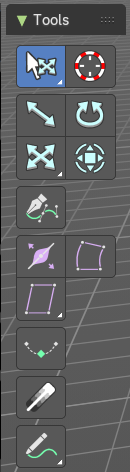
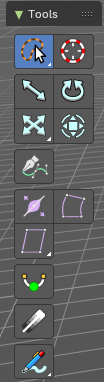
Document week 45 small upstream changes: Mask socket default link, GP Lasso default, GP Curve Data panel, EEVEE Oren-Nayar, Shader Add > Utilities Bundle and Closure, Menu Switch descriptions, Azerbaijani (#1847)

diff --git a/docs2/content/editors/shader-editor/header/add-menu/utilities.md b/docs2/content/editors/shader-editor/header/add-menu/utilities.md
@@ -23,11 +23,11 @@ replaces:
   - editors.shader-editor.header.add-menu-utilities-math
   - editors.shader-editor.header.add-menu-utilities-vector
 ---
-## Add menu - Utilities - Vector
+## Add menu - Utilities
 
-![Add menu - Utilities - Vector](/docs2/images/editors/shader-editor/header/add-menu-utilities/add-menu-utilities-vector.png)
+![Add menu - Utilities](/docs2/images/editors/shader-editor/header/add-menu-utilities/add-menu-utilities-vector.png)
 
-This menu contains nodes that deals with vector data.
+This menu contains the utility nodes of the Shader Editor. The Math, Text and Vector submenus group the nodes by data. The **Bundle** and **Closure** submenus have their own entries in the menu, and are described in their own sections after this one. The other nodes are listed directly in the Utilities menu.
 
 ### Repeat
 
@@ -63,84 +63,6 @@ The index of the current iteration. It starts counting at zero.
 
 The result and output of the iteration or loop. It has no fixed sockets. It shows one input and one output for each item of the zone.
 
-
-### Closure
-
-![Closure](/docs2/images/editors/shader-editor/header/add-menu-utilities/closure.png)
-
-Wrap nodes inside a closure that can be executed at a different part of the node-tree
-
-#### Outputs
-
-##### Closure
-
-Data type: Closure.
-
-The closure made from the nodes inside the zone. This socket is on the Closure Output node.
-
-### Evaluate Closure
-
-![Evaluate Closure](/docs2/images/editors/shader-editor/header/add-menu-utilities/evaluate-closure.png)
-
-Execute a given closure.
-
-#### Inputs
-
-##### Closure
-
-Data type: Closure.
-
-The closure to execute. The other inputs and outputs of the node follow the items of the closure.
-
-### Combine Bundle
-
-![Combine Bundle](/docs2/images/editors/shader-editor/header/add-menu-utilities/combine-bundle.png)
-
-Combine multiple socket values into one.
-
-#### Outputs
-
-##### Bundle
-
-Data type: Bundle.
-
-The bundle with all the values. Connect a link to the empty input socket to add a value.
-
-### Join Bundle
-
-![Join Bundle](/docs2/images/editors/shader-editor/header/add-menu-utilities/join-bundle.png)
-
-Merges two or more bundles into one. A bundle holds several values under names, like a small folder of settings, and Join Bundle puts the contents of several folders into a single one. Use it to collect the settings of different parts of a node tree into one bundle that you pass on.
-
-#### Inputs
-
-##### Bundle
-
-Data type: Bundle.
-
-One or more bundles. The empty socket at the bottom adds another one.
-
-#### Outputs
-
-##### Bundle
-
-Data type: Bundle.
-
-One bundle with the items of all input bundles.
-
-### Separate Bundle
-
-![Separate Bundle](/docs2/images/editors/shader-editor/header/add-menu-utilities/separate-bundle.png)
-
-Decompose a bundle of values into the single values.
-
-#### Inputs
-
-##### Bundle
-
-Data type: Bundle.
-
-The bundle to split. Connect a link to the empty output socket to add a value.
 
 ### Index Switch
 
@@ -225,6 +147,12 @@ The values to switch between, one for each menu item. An item becomes the output
 
 Determines the type of the data that is handled by the node.
 
+##### Menu Items
+
+![Menu Items](/docs2/images/editors/shader-editor/header/add-menu-utilities/menu-items.png)
+
+The sidebar Node tab lists the menu items. Select an item to edit it. The **Description** box under the list is a multi-line text box: press Enter to start a new line, and drag its lower right corner to make it taller. The description is shown as the tooltip of the menu entry.
+
 #### Outputs
 
 ##### Output
@@ -279,6 +207,96 @@ Data type: Color.
 
 The True or False value, depending on Switch.
 
+
+## Add menu - Utilities - Bundle
+
+![Add menu - Utilities - Bundle](/docs2/images/editors/shader-editor/header/add-menu-utilities/add-menu-utilities-bundle.png)
+
+The Bundle submenu holds the nodes that build, merge and split bundles. A bundle is a group of named values that travels along one link.
+
+### Combine Bundle
+
+![Combine Bundle](/docs2/images/editors/shader-editor/header/add-menu-utilities/combine-bundle.png)
+
+Combine multiple socket values into one.
+
+#### Outputs
+
+##### Bundle
+
+Data type: Bundle.
+
+The bundle with all the values. Connect a link to the empty input socket to add a value.
+
+### Join Bundle
+
+![Join Bundle](/docs2/images/editors/shader-editor/header/add-menu-utilities/join-bundle.png)
+
+Merges two or more bundles into one. A bundle holds several values under names, like a small folder of settings, and Join Bundle puts the contents of several folders into a single one. Use it to collect the settings of different parts of a node tree into one bundle that you pass on.
+
+#### Inputs
+
+##### Bundle
+
+Data type: Bundle.
+
+One or more bundles. The empty socket at the bottom adds another one.
+
+#### Outputs
+
+##### Bundle
+
+Data type: Bundle.
+
+One bundle with the items of all input bundles.
+
+### Separate Bundle
+
+![Separate Bundle](/docs2/images/editors/shader-editor/header/add-menu-utilities/separate-bundle.png)
+
+Decompose a bundle of values into the single values.
+
+#### Inputs
+
+##### Bundle
+
+Data type: Bundle.
+
+The bundle to split. Connect a link to the empty output socket to add a value.
+
+## Add menu - Utilities - Closure
+
+![Add menu - Utilities - Closure](/docs2/images/editors/shader-editor/header/add-menu-utilities/add-menu-utilities-closure.png)
+
+The Closure submenu holds the nodes that wrap nodes inside a closure and run it somewhere else in the node tree.
+
+### Closure
+
+![Closure](/docs2/images/editors/shader-editor/header/add-menu-utilities/closure.png)
+
+Wrap nodes inside a closure that can be executed at a different part of the node-tree
+
+#### Outputs
+
+##### Closure
+
+Data type: Closure.
+
+The closure made from the nodes inside the zone. This socket is on the Closure Output node.
+
+### Evaluate Closure
+
+![Evaluate Closure](/docs2/images/editors/shader-editor/header/add-menu-utilities/evaluate-closure.png)
+
+Execute a given closure.
+
+#### Inputs
+
+##### Closure
+
+Data type: Closure.
+
+The closure to execute. The other inputs and outputs of the node follow the items of the closure.
 
 # Math
 

diff --git a/docs2/content/editors/3d-viewport/all-modes/sidebar.md b/docs2/content/editors/3d-viewport/all-modes/sidebar.md
@@ -582,13 +582,50 @@ The subdivision per segment.
 
 Smooth the normals of the surface or a beveled curve.
 
-## Item tab - Grease Pencil Object - Active Spline Panel
+## Item tab - Grease Pencil Object - Curve Data Panel
+
+![Curve Data panel](/docs2/images/editors/3d-viewport/sidebar/item-tab/grease-pencil-curve-data.png)
+
+The Curve Data panel shows in Edit Mode when strokes are selected. It changes the attributes of all selected strokes at once. A field is shown as mixed when the selected strokes have different values.
+
+### Stroke Type
+
+![Stroke Type](/docs2/images/editors/3d-viewport/sidebar/item-tab/grease-pencil-stroke-type.png)
+
+Sets what the selected strokes are made of. It does the same as **Stroke > Set Stroke Type**, and it is faster when the sidebar is open.
+
+- **Stroke**: Only the line is drawn. Existing fills of the selected strokes are removed.
+- **Fill**: Only the fill is drawn. The line is hidden.
+- **Both**: The line and the fill are drawn.
 
 ### Cyclic
 
 ![Cyclic](/docs2/images/editors/3d-viewport/sidebar/item-tab/cyclic.png)
 
 The checkbox is labeled **U**, like the Cyclic checkbox in the Active Spline panel of curves. Turn it on to make the selected stroke (or curve, for a Curves object) a closed loop. Hover over the checkbox to see the tooltip "Make the stroke a closed loop".
+
+### Fill Opacity
+
+Opacity of the fill of the selected strokes.
+
+### Start Cap / End Cap
+
+The shape of the start and the end of the stroke. Each entry has its own icon in the list.
+
+- **Round**: The end is a half circle.
+- **Flat**: The end is cut straight.
+
+### Softness
+
+Softens the edge of the stroke.
+
+### U Scale
+
+Scales the stroke texture along the stroke.
+
+### Aspect Ratio
+
+Changes the aspect ratio of the stroke texture.
 
 # View Tab
 

diff --git a/docs2/content/editors/3d-viewport/grease-pencil/edit.md b/docs2/content/editors/3d-viewport/grease-pencil/edit.md
@@ -1033,6 +1033,8 @@ Here you can find tools to edit the curve geometry of the grease pencil strokes.
 
 The tweak, select, transform, 3d cursor, measure and annotate tools at the end of the list are explained in the chapter 7.1.1 Editors - 3D View - Tool Shelf - Object Mode. We won't cover this tools again here.
 
+**Select Lasso** is the active tool when you enter Edit Mode on a Grease Pencil object, so you can drag a free-form loop around points straight away. Pick another select tool (Tweak, Select Box or Select Circle) from the first slot of the tool shelf if you prefer it. A scene that already has a tool stored keeps that tool.
+
 #### Pen
 
 Extrude selected curve points to the mouse click position.

diff --git a/docs2/content/editors/compositor/header/add-menu/mask.md b/docs2/content/editors/compositor/header/add-menu/mask.md
@@ -251,6 +251,8 @@ Data type: Float (factor).
 
 An optional mask to use as the base for mask operations.
 
+This is the socket that connects by default: when you insert the node on a link, or add it from a dragged link, the link goes to **Mask**.
+
 ##### Value
 
 Data type: Float (factor).
@@ -322,6 +324,8 @@ Any area covered by both the input mask and the generated mask becomes black. Ar
 Data type: Float (factor).
 
 An optional mask to use as the base for mask operations.
+
+This is the socket that connects by default: when you insert the node on a link, or add it from a dragged link, the link goes to **Mask**.
 
 ##### Value
 

diff --git a/docs2/content/editors/geometry-node-editor/header/add-menu/utilities.md b/docs2/content/editors/geometry-node-editor/header/add-menu/utilities.md
@@ -251,6 +251,12 @@ The node has one input socket for each menu item. A and B are the default items.
 
 Determines the type of the data that is handled by the node.
 
+##### Menu Items
+
+![Menu Items](/docs2/images/editors/geometry-node-editor/header/add-menu-utilities/menu-items.png)
+
+The sidebar Node tab lists the menu items. Select an item to edit it. The **Description** box under the list is a multi-line text box: press Enter to start a new line, and drag its lower right corner to make it taller. The description is shown as the tooltip of the menu entry.
+
 #### Outputs
 
 ##### Output

diff --git a/docs2/content/editors/shader-editor/header/add-menu/shader.md b/docs2/content/editors/shader-editor/header/add-menu/shader.md
@@ -123,7 +123,7 @@ Color of the surface, or physically speaking, the probability that light is refl
 
 Data type: Float (factor).
 
-Cycles only. Surface roughness; 0.0 gives standard Lambertian reflection, higher values activate the Oren-Nayar BSDF.
+Surface roughness; 0.0 gives standard Lambertian reflection, higher values activate the Oren-Nayar BSDF. Works in EEVEE and Cycles, and both engines give the same look for the same roughness.
 
 ##### Normal
 

diff --git a/docs2/content/editors/preferences.md b/docs2/content/editors/preferences.md
@@ -237,6 +237,8 @@ Choose another default language for Bforartists.
 
 Choose between automatic language detection. In this case the system language gets chosen. Or pick a language that you want to use.
 
+Azerbaijani (Azərbaycan dili) is a new language in the list.
+
 #### Translate
 
 ##### Tool tips
